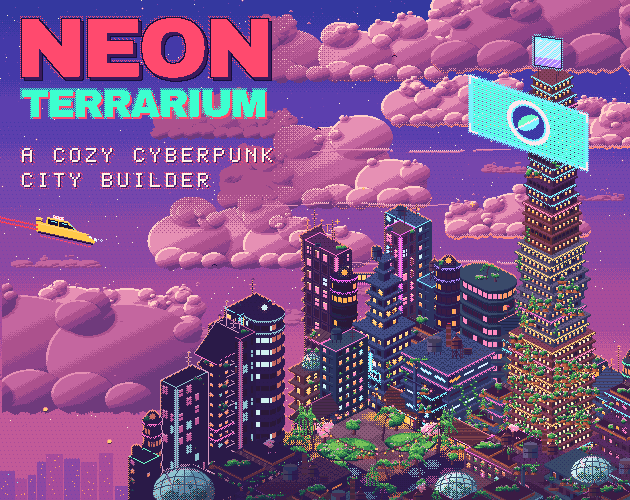
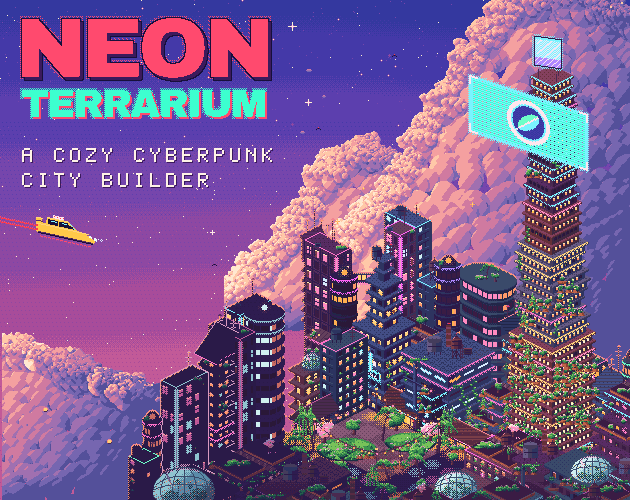
Cover art: cauliflower cumulus banks in flat tones, skyline and tagline halo removed, sparkle stars
Claude-Session: https://claude.ai/code/session_01F4MPX99podf2NwUC3T9owt

diff --git a/cover-art/cover.px.js b/cover-art/cover.px.js
@@ -7,8 +7,8 @@ const W = 630, H = 500, FRAMES = 48
 const PAL = {
   // sky, blue-violet at the top -> magenta -> pink near the city
   0: "#34389f", 1: "#4439a8", 2: "#5c3fae", 3: "#7646ac", 4: "#8e48a2", 5: "#a84c9a", 6: "#c25a98",
-  // clouds: lit top, mauve, plum, shadow
-  a: "#c4669f", b: "#ac518d", c: "#8f4388", d: "#6f3a7c",
+  // clouds, warm to cool: cream, peach, coral pink, rose, mauve, lavender, deep periwinkle
+  "{": "#ffe8d0", "}": "#ffc8a8", "|": "#f4a0a0", a: "#d07aa0", b: "#a070b0", c: "#7666b0", d: "#54509a",
   // walls as (top / lit side / shadow side), seven distinct families: dusk rose, lilac grey, coral clay, periwinkle, plum, ink navy, deep teal
   R: "#b05a7e", r: "#84405e", u: "#582a42",
   P: "#8a7aa8", p: "#665a84", q: "#443c5c",
@@ -38,7 +38,7 @@ const PAL = {
   // title: coral, purple, mint, ink, pale pink
   C: "#ff4a6e", X: "#3b1a5c", G: "#3dffcf", I: "#170f3a", J: "#f7c6d6",
   // cloud ramp ends: rim highlight, lit, underside glow; tagline cream
-  "{": "#ffd0c8", "}": "#e690b4", "|": "#ff8a7a", "~": "#fff3e6",
+  "~": "#fff3e6",
   // star cream, pale pink-white, red lights
   F: "#fff0d0", W: "#ffe6ee", x: "#ff3b4a",
 }
@@ -117,161 +117,112 @@ for (let y = 0; y < 430; y++) for (let x = 0; x < W; x++) {
 }
 
 // ================================================================ clouds
-// Three drifting layers (far, mid, near) of hand-built cumulus. Each cloud is a cluster of billows of very different
-// sizes with a flat, ragged base; every billow is lit from the upper left and keeps its own rim crescent, where it
-// tucks behind a billow in front it takes a core shadow, and the bases over the city catch the neon.
-// tones, light to dark: rim, lit, light mid, mid, shade, deep (plus the underside glow "|")
-const CLK = ["{", "}", "a", "b", "c", "d"]
-const inTitleZone = (x, y) => x < 300 && y < 205
-// distant skyline, lower left: two steps darker than the sky, a few warm window dots and neon specks
-{
-  const base = H, rnd = (a, b = 0) => ih(a, b, 411)
-  let x = 0
-  while (x < 175) {
-    const bw = 8 + Math.floor(rnd(x) * 12), bh = 14 + Math.floor(rnd(x, 1) * 34)
-    const top = base - bh - Math.round(clamp((x - 20) / 150, 0, 1) * 0)   // all rise from the bottom edge
-    for (let xx = x; xx < Math.min(x + bw, 175); xx++) for (let yy = top; yy < base; yy++) put(xx, yy, rnd(x, 2) < 0.5 ? "5" : "4")
-    if (rnd(x, 3) < 0.5) for (let xx = x + 2; xx < Math.min(x + bw, 175) - 1; xx += 3) put(xx, top - 1, rnd(x, 4) < 0.5 ? "5" : "4")      // a rooftop step
-    for (let k = 0; k < Math.round(bw * bh / 70); k++) { const wx = x + 1 + Math.floor(rnd(x, 10 + k) * (bw - 2)), wy = top + 2 + Math.floor(rnd(x, 30 + k) * (bh - 4)); if (wx < 175) put(wx, wy, "y") }
-    if (rnd(x, 5) < 0.35) { const wx = x + 1 + Math.floor(rnd(x, 6) * (bw - 2)); if (wx < 175) put(wx, top + 3, rnd(x, 7) < 0.5 ? "H" : "n") }
-    x += bw + Math.floor(rnd(x, 8) * 3)
-  }
-}
+// Towering cumulus banks, each a cauliflower of hundreds of small billows. A pixel's tone comes from one smooth light field
+// (a big warm-left / cool-right diagonal, plus each billow's own sun-side crescent, minus a shadow where it tucks under a
+// billow in front), cut into seven flat tones with hard edges, then cleaned so every tone is a solid shape. No dithering.
+// tones, warm to cool: cream, peach, coral pink, rose, mauve, lavender, deep periwinkle
+const CRAMP = ["{", "}", "|", "a", "b", "c", "d"]
 const SKYBASE = fb.slice()
 const cloudLayer = () => new Uint8Array(W * H).fill(255)
 const drawInto = (buf, fn) => { const s = fb; fb = buf; fn(); fb = s }
-const rag = (x, seed) => Math.round(1.3 * Math.sin(x * 0.37 + seed) + (ih(x, seed, 7) - 0.5) * 1.6)
-const cumulus = (o) => {
-  const { cx, cy, w, h, seed } = o, far = !!o.far
-  const yb = Math.round(cy + h / 2)
+const bank = (o) => {
+  const { x0, x1, base, env, seed } = o
   const R = (k, a = 0) => ih(seed, k, a)
-  const bill = []
-  const add = (x, y, r, rank) => bill.push({ x: Math.round(x), y: Math.round(y), rx: r * (far ? 1.5 : 1.18), ry: far ? r * 0.55 : r * 0.82, rank })
-  const nm = clamp(Math.round(w / (h * 0.9)), 2, 5)
-  const mains = []
-  for (let i = 0; i < nm; i++) {
-    const t = (i + 0.5) / nm + (R(10 + i) - 0.5) * 0.2
-    const env = Math.pow(Math.sin(Math.PI * clamp(t, 0.06, 0.94)), 0.6)
-    const r = Math.max(h * (0.34 + 0.3 * env) * (0.75 + 0.5 * R(20 + i)), (w / nm) * 0.42)
-    const m = { x: cx + (t - 0.5) * w, y: yb - r * (far ? 0.5 : 0.78), r }
-    mains.push(m); add(m.x, m.y, m.r, 0)
+  const envY = (x) => lerpPoly(env, x)
+  const top = Math.floor(Math.min(...env.map((p) => p[1]))) - 24
+  const discs = []
+  const add = (x, y, r, d, warm) => discs.push({ x: Math.round(x), y: Math.round(y), r, d, warm })
+  const sp = o.sp ?? 13
+  // the body: big discs packed on a jittered grid under the skyline
+  for (let gy = top; gy < base; gy += sp * 0.8) for (let gx = x0 - 6; gx <= x1 + 6; gx += sp) {
+    const x = gx + (R(1, gx * 7 + Math.round(gy)) - 0.5) * sp, y = gy + (R(2, gx * 5 + Math.round(gy)) - 0.5) * sp
+    const r = sp * (0.7 + 0.3 * R(3, gx + Math.round(gy) * 3))
+    if (y - r * 0.4 < envY(x) || x < x0 - 4 || x > x1 + 4) continue
+    add(x, y, r, 0, false)
   }
-  // low fillers along the base keep the underside flat and continuous
-  for (let x = cx - w / 2 + 4; x < cx + w / 2 - 2; x += h * (0.3 + 0.2 * R(5, x >> 3))) { const r = h * (0.16 + 0.12 * R(6, Math.round(x))); add(x, yb - r * 0.65, r, 0) }
-  const meds = []
-  const nmed = far ? 2 : 6 + Math.floor(R(2) * 4)
-  for (let i = 0; i < nmed; i++) {
-    const p = mains[Math.floor(R(30 + i) * mains.length)]
-    const th = -Math.PI * (0.08 + 0.84 * R(40 + i))
-    const r = p.r * (0.3 + 0.26 * R(50 + i))
-    const m = { x: p.x + Math.cos(th) * p.r * 0.88, y: p.y + Math.sin(th) * p.r * 0.82, r }
-    meds.push(m); add(m.x, m.y, r, 1)
+  // scalloped edge: discs along the skyline, then children on their upper arcs, smaller and smaller
+  const spawn = (p, depth) => {
+    if (p.r < 3.2 || depth > 3) return
+    const n = 3 + Math.floor(R(10 + depth, p.x * 3 + p.y) * 3)
+    for (let k = 0; k < n; k++) {
+      const th = -Math.PI * (0.06 + 0.88 * ((k + R(11 + depth, p.x + p.y * 7 + k)) / n))
+      const r = p.r * (0.42 + 0.26 * R(12 + depth, p.x * 5 + p.y + k))
+      const c = { x: Math.round(p.x + Math.cos(th) * p.r * 0.86), y: Math.round(p.y + Math.sin(th) * p.r * 0.86), r, d: depth + 1, warm: p.warm }
+      discs.push(c); spawn(c, depth + 1)
+    }
   }
-  const all = [...mains, ...meds]
-  const nsm = far ? 3 : 14 + Math.floor(R(3) * 8)
-  for (let i = 0; i < nsm; i++) {
-    const p = all[Math.floor(R(60 + i) * all.length)]
-    const th = -Math.PI * (0.0 + 1.0 * R(70 + i))
-    const r = Math.max(1.6, p.r * (0.14 + 0.16 * R(80 + i)))
-    add(p.x + Math.cos(th) * p.r * 1.0, p.y + Math.sin(th) * p.r * 0.94, r, 2)
+  const step = 8
+  for (let x = x0; x <= x1; x += step * (0.7 + 0.6 * R(20, x))) {
+    const r = 8 + 8 * R(21, Math.round(x))
+    const p = { x: Math.round(x), y: Math.round(envY(x) + r * 0.55), r, d: 1, warm: R(22, Math.round(x)) < (o.warmP ?? 1) }
+    if (p.y > base - 4) continue
+    discs.push(p); spawn(p, 1)
   }
-  bill.sort((p, q) => p.rank - q.rank || p.y - q.y)
-  let x0 = 1e9, x1 = -1e9, y0 = 1e9
-  for (const b of bill) { x0 = Math.min(x0, b.x - b.rx); x1 = Math.max(x1, b.x + b.rx); y0 = Math.min(y0, b.y - b.ry) }
-  x0 = Math.floor(x0) - 2; x1 = Math.ceil(x1) + 2; y0 = Math.floor(y0) - 2
-  const BW = x1 - x0 + 1, BH = yb + 4 - y0 + 1
-  const own = new Int16Array(BW * BH).fill(-1)
-  bill.forEach((b, k) => {
-    for (let y = Math.floor(b.y - b.ry); y <= Math.ceil(b.y + b.ry); y++) for (let x = Math.floor(b.x - b.rx); x <= Math.ceil(b.x + b.rx); x++) {
-      const dx = (x + 0.5 - b.x) / b.rx, dy = (y + 0.5 - b.y) / b.ry
-      if (dx * dx + dy * dy > 1) continue
-      if (y > yb + rag(x, seed)) continue
-      own[(y - y0) * BW + (x - x0)] = k
+  // detached fragments near the lit tops
+  for (let i = 0; i < (o.frag ?? 8); i++) {
+    const x = x0 + R(30, i) * (x1 - x0), r = 1.2 + 1.8 * R(31, i)
+    discs.push({ x: Math.round(x), y: Math.round(envY(x) - 5 - R(32, i) * 14), r, d: 5, warm: true, frag: true })
+  }
+  const bx0 = x0 - 8, bx1 = x1 + 8, bw = bx1 - bx0 + 1, bh = base + 2 - top + 1
+  const own = new Int32Array(bw * bh).fill(-1)
+  // paint order: body, then edge discs, then children by depth (so smaller billows end up in front)
+  const order = discs.map((d, i) => i).sort((p, q) => discs[p].d - discs[q].d || discs[p].y - discs[q].y)
+  const rb = (x) => base + ((x >> 2) % 3 === 0 ? -1 : 0)
+  order.forEach((di, rank) => {
+    const d = discs[di]; d.rank = rank
+    for (let y = Math.floor(d.y - d.r); y <= Math.ceil(d.y + d.r); y++) for (let x = Math.floor(d.x - d.r); x <= Math.ceil(d.x + d.r); x++) {
+      if (y < top || y > rb(x) || x < bx0 || x > bx1) continue
+      const dx = x + 0.5 - d.x, dy = y + 0.5 - d.y
+      if (dx * dx + dy * dy > d.r * d.r) continue
+      own[(y - top) * bw + (x - bx0)] = di
     }
   })
-  // ragged silhouette: a few notches bitten out of the edge
-  for (let n = 0; n < 5; n++) {
-    const ex = x0 + 3 + Math.floor(R(90 + n) * (BW - 6))
-    for (let y = y0; y < yb; y++) { const i = (y - y0) * BW + (ex - x0); if (own[i] >= 0) { for (const [ddx, ddy] of [[0, 0], [1, 0], [0, 1]]) { const j = i + ddy * BW + ddx; if (own[j] >= 0 && R(95 + n) < 0.8) own[j] = -1 } break } }
+  const at = (x, y) => (x < bx0 || x > bx1 || y < top || y >= top + bh ? -1 : own[(y - top) * bw + (x - bx0)])
+  const tone = new Int8Array(bw * bh).fill(-1)
+  const hw = (x1 - x0) / 2, cxm = (x0 + x1) / 2, ytop = Math.min(...env.map((p) => p[1])), hh = base - ytop
+  for (let y = top; y < top + bh; y++) for (let x = bx0; x <= bx1; x++) {
+    const k = at(x, y); if (k < 0) continue
+    const d = discs[k]
+    const nx = (x + 0.5 - d.x) / d.r, ny = (y + 0.5 - d.y) / d.r
+    const l = -0.78 * nx - 0.68 * ny
+    const u = (x - x0) / (x1 - x0), v = (y - ytop) / hh
+    let s = (o.lift ?? 1.4) - 1.95 * u - 0.85 * v + 0.46 * l * (d.d >= 1 ? 1.1 : 0.8) - (o.shade ?? 0)
+    if (d.warm && !d.frag) s += o.warmLift ?? 0
+    // tucked under a billow in front: a shadow
+    for (const [ax, ay] of [[0, -1], [-1, -1], [0, -2], [-1, -2], [-2, -1], [1, -2]]) { const kk = at(x + ax, y + ay); if (kk >= 0 && discs[kk].rank > d.rank) { s -= 0.32; break } }
+    s -= 0.9 * clamp((y - (base - 34)) / 34, 0, 1)
+    if (d.frag) s = Math.max(s, 0.8)
+    const th = [0.95, 0.62, 0.3, 0.0, -0.3, -0.6]
+    let t = 6; for (let j = 0; j < 6; j++) if (s > th[j]) { t = j; break }
+    tone[(y - top) * bw + (x - bx0)] = t
   }
-  const at = (x, y) => (x < x0 || x > x1 || y < y0 || y >= y0 + BH ? -1 : own[(y - y0) * BW + (x - x0)])
-  const bottom = new Int16Array(BW).fill(-1000)
-  for (let x = x0; x <= x1; x++) for (let y = yb + 3; y >= y0; y--) if (at(x, y) >= 0) { bottom[x - x0] = y; break }
-  const top = y0 + 2
-  for (let y = y0; y < y0 + BH; y++) for (let x = x0; x <= x1; x++) {
-    const k = own[(y - y0) * BW + (x - x0)]
-    if (k < 0) continue
-    const b = bill[k]
-    const nx = (x + 0.5 - b.x) / b.rx, ny = (y + 0.5 - b.y) / b.ry, dd = Math.hypot(nx, ny)
-    let l = -0.62 * nx - 0.78 * ny + 0.24 * (0.5 - (y - top) / Math.max(8, yb - top))
-    const de = (1 - dd) * Math.min(b.rx, b.ry)
-    l += (bay(x, y) - 0.5) * 0.12
-    l += o.lift ?? 0.3
-    l -= 0.6 * clamp((y - (yb - 9)) / 9, 0, 1)
-    let idx = l > 0.42 ? 1 : l > 0.05 ? 2 : l > -0.3 ? 3 : l > -0.62 ? 4 : 5
-    if (l > 0.66 && de <= 1.7 && !far) idx = 0
-    // where a billow in front overlaps, a core shadow on this one
-    let sh = 0
-    for (const [ax, ay] of [[-1, 0], [0, -1], [-1, -1], [-2, -1], [-1, -2]]) { const kk = at(x + ax, y + ay); if (kk > k) { sh = 1; break } }
-    if (!sh) for (const [ax, ay] of [[-2, 0], [0, -2], [-3, -1], [-2, -2]]) { const kk = at(x + ax, y + ay); if (kk > k && ((x + y) & 1) === 0) { sh = 1; break } }
-    idx = Math.min(5, idx + sh + (o.shift || 0))
-    if (o.shift && idx === 0) idx = 1
-    let key
-    if (far) key = idx <= 2 ? "a" : idx <= 3 ? "b" : "c"
-    else {
-      if (bay(x + 3, y) < clamp((340 - x) / 70, 0, 1) * clamp((235 - y) / 45, 0, 1)) idx = clamp(idx, 3, 5)
-      key = CLK[idx]
+  // clean up: a pixel that most of its neighbours disagree with joins them, so every tone is a solid cluster
+  for (let pass = 0; pass < 2; pass++) {
+    const nt = tone.slice()
+    for (let y = top + 1; y < top + bh - 1; y++) for (let x = bx0 + 1; x < bx1; x++) {
+      const i = (y - top) * bw + (x - bx0)
+      if (tone[i] < 0) continue
+      const cnt = {}
+      for (let dy = -1; dy <= 1; dy++) for (let dx = -1; dx <= 1; dx++) { if (!dx && !dy) continue; const t = tone[i + dy * bw + dx]; if (t >= 0) cnt[t] = (cnt[t] || 0) + 1 }
+      for (const t in cnt) if (cnt[t] >= 6 && +t !== tone[i]) nt[i] = +t
     }
-    // the underside catches the neon: strongest above the tower, fading left
-    const gs = (o.glow ?? 0) * clamp((x - 300) / 230, 0, 1) * (0.55 + 0.45 * Math.exp(-Math.abs(x - 540) / 120)) * clamp((330 - x) / 60 > 0 ? 0 : 1, 0, 1)
-    const dist = bottom[x - x0] - y
-    if (!far && gs > 0 && dist <= 3 && dist >= 0) {
-      const g2 = Math.min(1, gs * 1.7), pr = [1, 0.95, 0.75, 0.45][dist]
-      if (bay(x + 1, y) < g2 * pr) key = dist <= 1 ? "|" : "}"
-    }
-    put(x, y, key)
+    tone.set(nt)
   }
-  // a few detached wisps and scraps off the edges
-  const nw = far ? 1 : 4 + Math.floor(R(4) * 3)
-  for (let i = 0; i < nw; i++) {
-    const p = all[Math.floor(R(100 + i) * all.length)]
-    const th = Math.PI * (R(110 + i) * 1.3 - 0.95)
-    const dist = p.r * 1.25 + 3 + R(120 + i) * 8
-    const wx = Math.round(p.x + Math.cos(th) * dist), wy = Math.min(yb - 2, Math.round(p.y + Math.sin(th) * dist * 0.8))
-    const len = 2 + Math.floor(R(130 + i) * 4)
-    if (inTitleZone(wx, wy) && wx < 280) continue
-    for (let k = 0; k < len; k++) { put(wx + k, wy - (k === 0 || k === len - 1 ? 0 : 1) + 0, far ? "a" : (k < 2 && !o.shift ? "}" : "a")); if (k > 0 && k < len - 1 && !far) put(wx + k, wy, "b") }
-  }
+  for (let y = top; y < top + bh; y++) for (let x = bx0; x <= bx1; x++) { const t = tone[(y - top) * bw + (x - bx0)]; if (t >= 0) put(x, y, CRAMP[t]) }
 }
-// a long, thin streak of lit cloud
-const streak = (x0, x1, y, seed, thick = 2) => {
-  for (let x = x0; x <= x1; x++) {
-    const t = (x - x0) / (x1 - x0), taper = Math.sin(Math.PI * t)
-    const yy = y + Math.round(1.4 * Math.sin(x * 0.045 + seed))
-    if (ih(x >> 3, seed, 13) < 0.1 || inTitleZone(x, yy)) continue
-    if (taper > 0.15) put(x, yy, "}")
-    if (taper > 0.4 && thick > 1 && ih(x, seed, 14) < 0.85) put(x, yy + 1, "a")
-    if (taper > 0.75 && ((x + yy) & 1) === 0) put(x, yy - 1, "{")
-  }
-}
-const LAYERS = { far: cloudLayer(), mid: cloudLayer(), near: cloudLayer() }
-drawInto(LAYERS.far, () => {
-  for (const [cx, cy, w, h, sd] of [[40, 372, 110, 16, 301], [150, 330, 120, 18, 302], [270, 318, 100, 14, 303], [60, 262, 90, 12, 304], [390, 290, 80, 12, 305], [520, 168, 70, 10, 306], [595, 196, 60, 10, 307], [215, 410, 110, 14, 308]]) cumulus({ cx, cy, w, h, seed: sd, far: true })
-})
-drawInto(LAYERS.mid, () => {
-  const M = [[360, 52, 170, 58, 11, 0.5], [455, 104, 120, 44, 12, 0.8], [330, 176, 200, 64, 13, 0.9], [262, 238, 190, 60, 14, 0.7], [520, 214, 130, 48, 15, 1], [118, 306, 150, 50, 16, 0.5], [590, 128, 90, 40, 17, 0.8], [470, 28, 130, 40, 18, 0.7], [220, 118, 130, 40, 19, 0]]
-  M.sort((p, q) => p[1] - q[1])
-  for (const [cx, cy, w, h, sd, glow] of M) cumulus({ cx, cy, w, h, seed: sd, glow })
-  streak(300, 520, 150, 1); streak(250, 470, 204, 2, 1); streak(330, 600, 262, 3)
-})
-drawInto(LAYERS.near, () => {
-  cumulus({ cx: 600, cy: 22, w: 300, h: 100, seed: 21, shift: 1, glow: 0.5, lift: 0.1 })
-  cumulus({ cx: 28, cy: 352, w: 280, h: 120, seed: 22, shift: 1, lift: 0.1 })
-})
+const LAYERS = { back: cloudLayer(), mid: cloudLayer(), front: cloudLayer() }
+// a smaller bank behind the middle of the city
+drawInto(LAYERS.back, () => bank({ x0: 232, x1: 452, base: 330, env: [[232, 300], [262, 262], [300, 222], [330, 168], [362, 150], [398, 164], [425, 205], [452, 270]], seed: 41, sp: 12, frag: 6 }))
+// the hero cloud: a huge tower behind the city on the right, up behind the hero tower and the billboard
+drawInto(LAYERS.mid, () => bank({ x0: 318, x1: 650, base: 380, env: [[318, 300], [350, 240], [392, 190], [430, 120], [470, 52], [510, 6], [556, -6], [600, 8], [650, 30]], seed: 42, sp: 15, frag: 12 }))
+// a low, cool bank along the bottom left, with a few warm lit tops
+drawInto(LAYERS.front, () => bank({ x0: -8, x1: 262, base: 508, env: [[-8, 346], [30, 352], [70, 368], [120, 388], [180, 410], [230, 438], [262, 462]], seed: 43, sp: 13, shade: 0.55, lift: 1.1, warmP: 0.3, warmLift: 0.8, frag: 5 }))
+// two or three small, calm fragments in the clear sky, well away from the letters
+drawInto(LAYERS.back, () => { for (const [x, y, w] of [[306, 70, 6], [322, 96, 4], [300, 132, 5]]) { hlineK(x, y, w, "b"); hlineK(x + 1, y - 1, w - 2, "a"); hlineK(x + 1, y + 1, w - 2, "c") } })
 const composeSky = (f, out) => {
   const t = (2 * Math.PI * f) / FRAMES
-  const dxs = [Math.round(0.9 * Math.sin(t)), Math.round(1.7 * Math.sin(t + 1)), Math.round(2.6 * Math.sin(t + 2))]
-  const Ls = [LAYERS.far, LAYERS.mid, LAYERS.near]
+  const dxs = [Math.round(1.2 * Math.sin(t)), Math.round(1.7 * Math.sin(t + 1)), Math.round(2.2 * Math.sin(t + 2))]
+  const Ls = [LAYERS.back, LAYERS.mid, LAYERS.front]
   for (let y = 0; y < H; y++) for (let x = 0; x < W; x++) {
     const i = y * W + x
     if (CITY[i]) continue
@@ -1851,7 +1802,6 @@ const TAG = []
 }
 const drawTagline = () => {
   for (const t of TAG) {
-    for (const [x, y, d] of t.glow) if (bay(x, y) < (d === 1 ? 0.34 : 0.14)) put(x, y, "C")
     for (const [x, y] of t.shadow) put(x, y, "X")
     for (const [x, y] of t.body) put(x, y, "~")
   }
@@ -2022,8 +1972,16 @@ const scanlines = () => {
 
 const DRONES = [[318, 128, 12, 3, 0, "x"], [205, 262, 10, 2, 5, "n"], [405, 52, 14, 3, 9, "x"]]
 const LANTERNS = [[278, 268, 3], [335, 226, 17], [420, 218, 31], [470, 206, 9], [365, 200, 40]]
+const SPARKLES = [[292, 26, 3], [308, 102, 2], [212, 232, 2]]
 const drawLife = (f) => {
   const t = (2 * Math.PI * f) / FRAMES
+  // four-point sparkle stars that slowly swell and shrink
+  SPARKLES.forEach(([x, y, sz], i) => {
+    const arm = sz + (((f + i * 8) % 24) < 12 ? 1 : 0)
+    put(x, y, "W")
+    for (let k = 1; k <= arm; k++) { const key = k === 1 ? "W" : "F"; put(x - k, y, key); put(x + k, y, key); put(x, y - k, key); put(x, y + k, key) }
+    for (const [dx, dy] of [[-1, -1], [1, -1], [-1, 1], [1, 1]]) if (arm > 2) put(x + dx, y + dy, "5")
+  })
   // tiny drones drift back and forth; a light on top blinks
   DRONES.forEach(([x0, y0, A, B, ph, lk], i) => {
     const x = Math.round(x0 + A * Math.sin(t + i * 2)), y = Math.round(y0 + B * Math.sin(2 * t + i))
